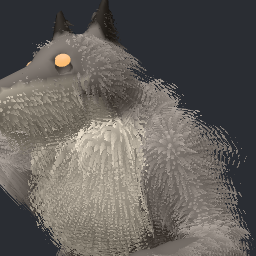
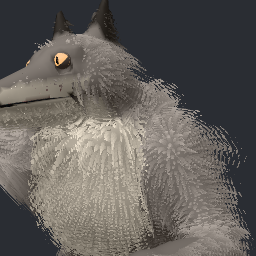
costuma 2026: Jimothy's and Howler's faces, work in progress
Claude-Session: https://claude.ai/code/session_01HczDVbv8MsAZiY48wduD3y

diff --git a/costuma2026/src/characters/wolf.ts b/costuma2026/src/characters/wolf.ts
@@ -6,8 +6,9 @@
 //
 // The face moves with the wearer's (FaceState, build.ts; `howlerTick` below): the lower jaw is a mesh of its own, rigid
 // on the `jaw` bone and furred like the body, so an open mouth is a clean gap with a dark palate, a tongue and fangs
-// (kaiju.ts's jaw, with fur); the eyes glow behind lids that blink, squint and widen, their pupils look where the wearer
-// looks; a brow ridge over each eye, the ears and the upper lips ride small bones (`earL`, `browL`, `lipL`, …) that take
+// (kaiju.ts's jaw, with fur), closed at the sides by a dark membrane (`mouthSides`), the lips' line black; the eyes glow
+// behind lids that blink, squint, widen and narrow in a smile, their pupils look where the wearer looks; a brow ridge
+// over each eye, the ears and the upper lips ride small bones (`earL`, `browL`, `lipL`, …) that take
 // a smooth share of the head's skin (`faceZones`), so a scowl, ears pinned back and a snarl that bares the fangs bend
 // the furred surface itself instead of moving stuck-on pieces.
 import * as THREE from 'three';
@@ -15,7 +16,7 @@ import type { Dresser, FaceState, Field, Fur } from './build';
 import { addFur } from './fur';
 import { createKaijuMaterial } from './material';
 import { isoGeometry } from './skeleton';
-import { eyelids, faceLids, look, setLids } from './faceparts';
+import { eyelids, look, setLids } from './faceparts';
 import { mergeGeometries } from 'three/addons/utils/BufferGeometryUtils.js';
 import { sdCapsule, sdEllipsoid, sdSphere, smin, type Seg } from './sdf';
 
@@ -127,6 +128,17 @@ export function mouthSides(d: Dresser, name: string, edge: readonly (readonly [n
   body.add(m);
   m.bind(body.skeleton, body.bindMatrix);
   return m;
+}
+
+/** the lids from the wearer's (faceparts faceLids), and a smile pushes the lower lids up: happy eyes, the cue a smile
+ *  needs on a face whose mouth is a muzzle's */
+export function smileLids(lids: (THREE.Object3D | null)[], f: FaceState): void {
+  for (let i = 0; i < 2; i++) {
+    const l = lids[i], L = i === 0;
+    if (!l) continue;
+    const sq = Math.max(L ? f.squintL : f.squintR, 0.75 * (L ? f.smileL : f.smileR));
+    setLids(l, Math.max(L ? f.blinkL : f.blinkR, 0.3 * sq), sq, L ? f.wideL : f.wideR);
+  }
 }
 
 /** a blink now and then while no face is read (0 at t = 0.6, the lab's still) */
@@ -246,7 +258,7 @@ export function wolfRegion(x: number, y: number, z: number): number {
   const ax = Math.abs(x);
   if (Math.hypot(x, y - NOSE[1], z - NOSE[2]) < 0.45) return 3;
   if (inMouth(x, y, z)) return 4;
-  if (y > MOUTH_Y - 0.08 && y < MOUTH_Y + 0.1 && z > HINGE_Z + 0.5 && z < 7.4) return 3; // the black lip line
+  if (y > MOUTH_Y - 0.08 && y < MOUTH_Y + 0.1 && z > HINGE_Z + 0.85 && z < 7.4) return 3; // the black lip line
   if ((y < 7.6 && y > 6.2 && z > 3.4 && ax > 2.6) || (y < 0.5 && z > 1.2)) return 3; // claws
   if (y > 17.4 && ax > 0.6 && z < 3.2) return 2; // the ears' backs
   if (z < -6.3) return 2; // the tail's tip
@@ -293,7 +305,7 @@ const ZONES: Zone[] = [1, -1].flatMap((sx) => {
     } },
     // an upper lip: the flew and the muzzle's side over the fangs, up to under the nose
     { bone: 'lip' + s, w: (x: number, y: number, z: number) => {
-      const r = Math.hypot((sx * x - 0.4) / 0.5, (y - 16.15) / 0.55, (z - 6.0) / 1.6);
+      const r = Math.hypot((sx * x - 0.42) / 0.42, (y - 16.12) / 0.48, (z - 5.85) / 1.3);
       return side(x) * (1 - sstep(0.4, 1.0, r)) * sstep(MOUTH_Y - 0.3, MOUTH_Y - 0.05, y + 0.25);
     } },
   ];
@@ -313,7 +325,8 @@ export function howlerDress(d: Dresser): void {
   // eyes that glow amber, a dark pupil each that turns where the wearer looks, under slanted lids
   const glow = d.std({ color: 0xffb020, emissive: 0xffb020, emissiveIntensity: 1.8, roughness: 0.3 });
   const pupil = d.std({ color: 0x0c0806, roughness: 0.3 });
-  const lid = d.std({ color: 0x2c2826, roughness: 0.9 });
+  // lids a shade darker than the face's fur: a shut eye is the glow going out under grey, rimmed dark open
+  const lid = d.std({ color: 0x4e4844, roughness: 0.9 });
   for (const [sx, s] of [[1, 'L'], [-1, 'R']] as const) {
     const eye = new THREE.Group();
     eye.name = 'howl-eye' + s;
@@ -325,7 +338,7 @@ export function howlerDress(d: Dresser): void {
     d.at(eyelids('howl-lid' + s, 0.24, lid, { gap: 0.1, tilt: sx * 0.3, open: 0.85 }), 'head', sx * WOLF_EYES[0], WOLF_EYES[1], WOLF_EYES[2]);
   }
   // the lower jaw, furred, a tongue on it; fangs and incisors in both jaws, the uppers' points just over the lower lip
-  furredPart(d, 'howl-jaw', 'jaw', wolfJawSDF, JAW_BOX, 30, jawColour, HOWL_FUR, 6, jawFur);
+  furredPart(d, 'howl-jaw', 'jaw', wolfJawSDF, JAW_BOX, 26, jawColour, HOWL_FUR, 5, jawFur);
   const tongue = new THREE.SphereGeometry(1, 18, 10).scale(0.3, 0.12, 0.95).translate(0, MOUTH_Y - 0.13, 5.35);
   d.at(new THREE.Mesh(tongue, d.std({ color: 0xb8505c, roughness: 0.45 })), 'jaw', 0, 0, 0);
   const tooth = d.std({ color: 0xf0ead8, roughness: 0.35 });
@@ -336,10 +349,10 @@ export function howlerDress(d: Dresser): void {
   };
   const upper: THREE.BufferGeometry[] = [], lower: THREE.BufferGeometry[] = [];
   for (const sx of [1, -1]) {
-    // the canines' roots go deep, so a snarl lifting the lip half a metre still bares tooth, not a root in the air
-    upper.push(fang(sx * 0.42, 6.3, 0.95, 0.11, true, 0.5), fang(sx * 0.44, 5.6, 0.6, 0.07, true, 0.45), fang(sx * 0.44, 5.05, 0.55, 0.07, true, 0.45));
+    // rooted deep (inside the muzzle, never through its side), so a snarl lifting the lip bares tooth, not a root
+    upper.push(fang(sx * 0.35, 6.3, 0.85, 0.095, true, 0.4), fang(sx * 0.38, 5.6, 0.52, 0.065, true, 0.36), fang(sx * 0.38, 5.05, 0.48, 0.065, true, 0.36));
     lower.push(fang(sx * 0.24, 6.45, 0.55, 0.085, false), fang(sx * 0.27, 5.5, 0.3, 0.06, false));
-    for (const x of [0.07, 0.19]) { upper.push(fang(sx * x, 6.95, 0.5, 0.045, true, 0.38)); lower.push(fang(sx * x, 6.6, 0.34, 0.04, false)); }
+    for (const x of [0.07, 0.19]) { upper.push(fang(sx * x, 6.95, 0.42, 0.045, true, 0.3)); lower.push(fang(sx * x, 6.6, 0.34, 0.04, false)); }
   }
   d.at(new THREE.Mesh(mergeGeometries(upper)!, tooth), 'head', 0, 0, 0);
   d.at(new THREE.Mesh(mergeGeometries(lower)!, tooth), 'jaw', 0, 0, 0);
@@ -361,7 +374,8 @@ const BROW_O = [BROW[0] - HEAD_A[0], BROW[1] - HEAD_A[1], BROW[2] - HEAD_A[2]], 
 const flick = (t: number, ph: number) => { const u = (t + ph) % 7.3; return u < 0.35 ? 0.16 * Math.sin((u / 0.35) * Math.PI * 2) * (1 - u / 0.35) : 0; };
 
 /**
- * The wearer's face on Howler's: lids (blinkL/R, squintL/R, wideL/R; an idle blink with no face), pupils (lookX/Y),
+ * The wearer's face on Howler's: lids (blinkL/R, squintL/R, wideL/R, and smileL/R lifts the lower ones; an idle blink
+ * with no face), pupils (lookX/Y),
  * brows (browUp the inner ends, browOuterL/R the outer, browDownL/R a low scowl), ears (pricked with wide eyes and raised
  * brows, pinned back flat with a scowl, a snarl or a frown), upper lips (sneer bares the fangs, smile pulls the corners
  * up into a grin, frown drops them). The jaw is the stage's (face.jaw, jawSide).
@@ -375,7 +389,7 @@ export function howlerTick(root: THREE.Object3D, t: number, face?: FaceState | n
     FACES.set(root, p);
   }
   const f = face ?? null;
-  if (f) faceLids(p.lids[0]!, p.lids[1]!, f);
+  if (f) smileLids(p.lids, f);
   else { const b = idleBlink(t); for (const l of p.lids) if (l) setLids(l, b, 0, 0); }
   for (const e of p.eyes) if (e) look(e, f, 0.5);
   const inner = f?.browUp ?? 0, frown = f?.frown ?? 0, sneer = f?.sneer ?? 0;
@@ -397,7 +411,7 @@ export function howlerTick(root: THREE.Object3D, t: number, face?: FaceState | n
     const lip = p.lips[i];
     if (lip) {
       // a snarl lifts the lip off the fangs and a little out; a grin lifts the corner behind (the bone's at the front)
-      lip.position.set(sx * (LIP_O[0]! + 0.08 * sneer), LIP_O[1]! + 0.5 * sneer + 0.08 * smile - 0.06 * frown, LIP_O[2]! - 0.14 * smile);
+      lip.position.set(sx * (LIP_O[0]! + 0.06 * sneer), LIP_O[1]! + 0.36 * sneer + 0.08 * smile - 0.06 * frown, LIP_O[2]! - 0.14 * smile);
       lip.rotation.x = 0.16 * smile - 0.1 * frown - 0.06 * sneer;
     }
   }

diff --git a/costuma2026/src/characters/jimothy.ts b/costuma2026/src/characters/jimothy.ts
@@ -30,15 +30,16 @@
 // The face follows the wearer's (FaceState, build.ts; `tick` below). The lower jaw is its own mesh, rigid on the `jaw`
 // bone and furred like the rest (wolf.ts furredPart): the head below the mouth line, ahead of the hinge, is cut away and
 // handed to it, so a closed mouth is the old face with a fine line under the whisker pads, and an open one a clean gap
-// with a dark palate, a pink tongue and small fangs. Black bead eyes with a glint that shifts as the wearer looks, under
-// lids a shade lighter than the mask so a blink reads; the pale brows, the ears and the cheek ruffs ride small bones that
+// with a dark palate, a pink tongue and small fangs, its sides closed by a dark membrane (wolf.ts mouthSides). Black bead
+// eyes with a glint that shifts as the wearer looks, under lids of the mask's dark (a blink is the shine going out, a
+// smile pushes the lower lids up); the pale brows, the ears and the cheek ruffs ride small bones that
 // take a smooth share of the head's skin (wolf.ts faceZones), so brows lift and knit, ears perk and flatten, cheeks
 // bunch up in a smile and puff, all in the fur itself; whiskers twitch.
 import * as THREE from 'three';
 import { mergeGeometries } from 'three/addons/utils/BufferGeometryUtils.js';
 import type { CharacterDef, Capture, Dresser, FaceState } from './build';
-import { eyelids, faceLids, look, setLids } from './faceparts';
-import { faceZones, furredPart, idleBlink, mouthSides, smax, sstep, type Zone } from './wolf';
+import { eyelids, look, setLids } from './faceparts';
+import { faceZones, furredPart, idleBlink, mouthSides, smax, smileLids, sstep, type Zone } from './wolf';
 import { sdCapsule, sdEllipsoid, sdSphere, smin, type Seg } from './sdf';
 
 type V3 = [number, number, number];
@@ -388,7 +389,7 @@ function dress(d: Dresser): void {
   // under lids of the mask's own dark: a blink is the shine going out of the mask
   const bead = d.std({ color: 0x050505, roughness: 0.06, metalness: 0.1 });
   const glint = d.std({ color: 0xffffff, emissive: 0xffffff, emissiveIntensity: 1.1, roughness: 0.3 });
-  const lid = d.std({ color: 0x211c19, roughness: 0.9 });
+  const lid = d.std({ color: 0x211c19, roughness: 1 });
   for (const [sx, s] of [[1, 'L'], [-1, 'R']] as const) {
     const eye = new THREE.Group();
     eye.name = 'jim-eye' + s;
@@ -408,7 +409,7 @@ function dress(d: Dresser): void {
 
   // the lower jaw, furred; in it a pink tongue and two small fangs, and in the head two more over them, a row of tiny
   // incisors and a dark throat behind: all hidden while the mouth is shut
-  furredPart(d, 'jim-jaw', 'jaw', jawSDF, JAW_BOX, 26, jawColour, JIM_FUR, 6, jawFur);
+  furredPart(d, 'jim-jaw', 'jaw', jawSDF, JAW_BOX, 24, jawColour, JIM_FUR, 5, jawFur);
   const line = (hz: number) => SK[1] + HINGE_Y + MOUTH_SLOPE * (hz - HINGE_Z);
   const tongue = new THREE.SphereGeometry(1, 18, 10).scale(0.34, 0.14, 0.78).translate(0, line(2.05) - 0.12, SK[2] + 2.05);
   d.at(new THREE.Mesh(tongue, d.std({ color: 0xc8646e, roughness: 0.45 })), 'jaw', 0, 0, 0);
@@ -461,7 +462,8 @@ const flick = (t: number, ph: number) => { const u = (t + ph) % 6.1; return u < 
 const twitch = (t: number) => { const u = (t + 2.2) % 3.7; return u < 0.45 ? 0.07 * Math.sin(u * 42) * (1 - u / 0.45) : 0; };
 
 /**
- * The wearer's face on his: lids (blinkL/R, squintL/R, wideL/R; an idle blink with no face), the glints (lookX/Y),
+ * The wearer's face on his: lids (blinkL/R, squintL/R, wideL/R, and smileL/R lifts the lower ones; an idle blink with
+ * no face), the glints (lookX/Y),
  * brows (browUp the inner ends, browOuterL/R the outer, browDownL/R knit and low), ears (perk with wide and raised brows,
  * pinned back with a scowl, drooping with a frown; a flick now and then), cheeks (smileL/R bunch them up, puff swells
  * them, sneer lifts, frown drops), whiskers (forward with a smile, up with a sneer or a puff). The jaw is the stage's
@@ -476,7 +478,7 @@ function tick(root: THREE.Object3D, t: number, face?: FaceState | null): void {
     FACES.set(root, p);
   }
   const f = face ?? null;
-  if (f) faceLids(p.lids[0]!, p.lids[1]!, f);
+  if (f) smileLids(p.lids, f);
   else { const b = idleBlink(t); for (const l of p.lids) if (l) setLids(l, b, 0, 0); }
   for (const e of p.eyes) if (e) look(e, f, 0.75);
   const frown = f?.frown ?? 0, sneer = f?.sneer ?? 0, puff = f?.puff ?? 0, inner = f?.browUp ?? 0;
@@ -528,7 +530,7 @@ export const JIMOTHY: CharacterDef = {
   // little above theirs, short and thick still
   fit: { size: 1.05, limb: 0.5 },
   // the jaw opens this far (radians) at a wide-open mouth; googly eyes over his own, in the mask
-  face: { jaw: 0.5, eyes: [[JIMOTHY_EYES[0], JIMOTHY_EYES[1], JIMOTHY_EYES[2] + 0.18, 0.36], [-JIMOTHY_EYES[0], JIMOTHY_EYES[1], JIMOTHY_EYES[2] + 0.18, 0.36]] },
+  face: { jaw: 0.55, eyes: [[JIMOTHY_EYES[0], JIMOTHY_EYES[1], JIMOTHY_EYES[2] + 0.18, 0.36], [-JIMOTHY_EYES[0], JIMOTHY_EYES[1], JIMOTHY_EYES[2] + 0.18, 0.36]] },
   idle: { tail: 0.15 },
   // 84 and eight layers keep body and coat under 150k triangles (88 was 156k)
   res: 84,
